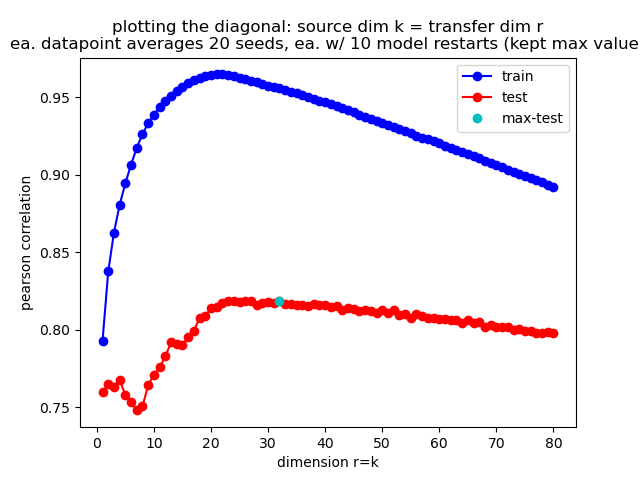
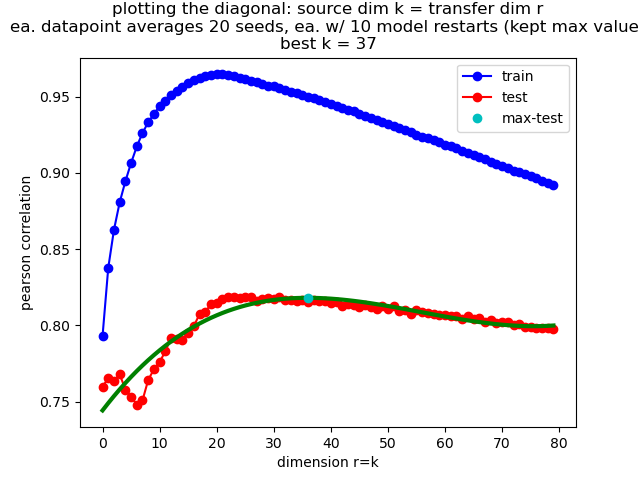
about to add cross-validation for selecting k

diff --git a/pyro_model/code/raw.py b/pyro_model/code/raw.py
@@ -183,6 +183,35 @@ def get_column_names(method, source_name, target_name):
 def obs_to_tensor(vec):
     return torch.Tensor(vec)
 
+#def choose_k(train_df, method, split_type):
+    # split train_df into folds
+    # k_list = []
+    # for each fold:
+        # val = fold
+        # train = other folds
+        # result_list = []
+        # for each value of k:
+            # fit model using train, k, method
+            # evaluate model on val
+            # append val_corr to result_list
+        # opt_k = the value of k associated with the highest result in result_list
+        # k_list.append(opt_k)
+    # return average(k_list)
+
+# def predict_target_only():
+#     k_best = choose_k_target_only(target_train_df)
+#     train_means, test_means = fit_target_only_model()
+#     return train_means, test_means
+
+# def main():
+    # get raw args
+    # get column names
+    # train / test split
+    # k_best <---- choose_k: do 10-fold cross validation on train (iterating over every 5 k's)
+    # fit train using k_best
+    # evaluate on test
+    # save predictions
+
 def main():
     method, source_name, target_name, holdout_frac, data_fn, write_dir, fold_fn, hyp_fn, split_seed, model_seed, k, r, n_steps = get_raw_args(sys.argv, 13)
     source_col, target_col = get_column_names(method, source_name, target_name)

diff --git a/pyro_model/code/model_info.py b/pyro_model/code/model_info.py
@@ -1,0 +1,13 @@
+import numpy as np 
+
+import helpers
+
+# K-values for each method x dataset pair. In our models r = k
+
+transfer_fn = 'model_info/kvals_transfer.pkl'
+transfer = {'log_CTD2_GDSC': 30, 'log_CTD2_REP': 28, 'log_GDSC_CTD2': 31, 'log_GDSC_REP': 35, 'log_REP_GDSC': 29, 'log_REP_CTD2': 29}
+helpers.write_pickle(transfer, transfer_fn)
+
+target_only = {'log_CTD2': 37, 'log_GDSC': 41, 'log_REP': 42}
+target_only_fn = 'model_info/kvals_target_only.pkl'
+helpers.write_pickle(target_only, target_only_fn)
